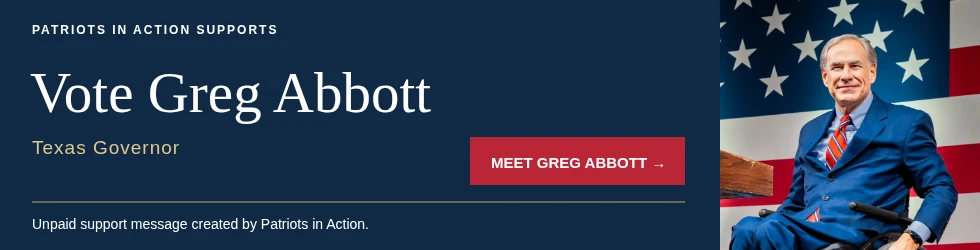
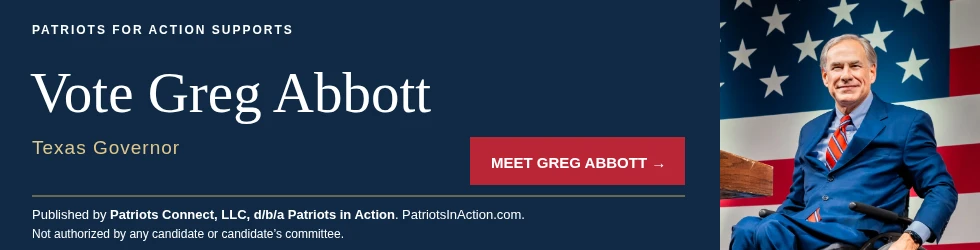
Name the supporter and publisher on the Abbott and Paxton ads (#34)
* Name the payers on the Abbott and Paxton ads

The owner replaced the "Patriots in Action supports" and unpaid-support wording
on the four Texas campaign ads:

- Greg Abbott: "Patriots for Action supports", "Paid for by PatriotsForAction.org."
- Ken Paxton: "GOP Connect supports", "Paid for by GOP Connect LLC."
- Both: "Not authorized by any candidate or candidate's campaign or committees."

The artwork is rebuilt on the PIA site and copied here byte for byte; the alt
text carries the same attribution. Links, placements and Texas targeting are
unchanged.

* Use the publisher disclaimers on the Abbott and Paxton ads

The owner settled the disclaimer wording:

- Greg Abbott: "Published by Patriots Connect, LLC, d/b/a Patriots in Action.
  PatriotsInAction.com."
- Ken Paxton: "Published by GOP Connect LLC."
- Both: "Not authorized by any candidate or candidate's committee."

The "Patriots for Action supports" and "GOP Connect supports" top lines stay.
The artwork is the PIA site's rebuild, copied byte for byte.

---------

Changed region(s): [[0.0306, 0.84, 0.551, 0.952], [0.0306, 0.756, 0.7041, 0.812], [0.1224, 0.084, 0.3061, 0.14]]

diff --git a/src/data/campaign-ads.ts b/src/data/campaign-ads.ts
@@ -4,11 +4,12 @@ import paxtonBanner from "../../ad-assets/ken-paxton-banner.webp";
 import abbottSquare from "../../ad-assets/greg-abbott-square.webp";
 import abbottBanner from "../../ad-assets/greg-abbott-banner.webp";
 
-// Existing Patriots in Action artwork, including its support attribution.
+// Artwork built by the PIA site (scripts/campaigns/build-ads.ts), which names each
+// ad's supporter and publisher; the alt text repeats that attribution.
 export const paxtonSquareAd: AdCreative = {
   id: "ken-paxton-inline", slot: "inline", image: paxtonSquare,
   name: "Ken Paxton",
-  alt: "Vote Ken Paxton for U.S. Senate · Texas. Unpaid support message created by Patriots in Action. View campaign information.",
+  alt: "Vote Ken Paxton for U.S. Senate · Texas. Published by GOP Connect LLC. Not authorized by any candidate or candidate’s committee. View campaign information.",
   href: "https://patriotsinaction.com/ken-paxton",
   stateSlugs: ["texas"], mastheadSponsor: false,
 };
@@ -18,7 +19,7 @@ export const paxtonBannerAd: AdCreative = {
 export const abbottSquareAd: AdCreative = {
   id: "greg-abbott-inline", slot: "inline", image: abbottSquare,
   name: "Greg Abbott",
-  alt: "Vote Greg Abbott for Texas Governor. Unpaid support message created by Patriots in Action. View campaign information.",
+  alt: "Vote Greg Abbott for Texas Governor. Published by Patriots Connect, LLC, d/b/a Patriots in Action. PatriotsInAction.com. Not authorized by any candidate or candidate’s committee. View campaign information.",
   href: "https://patriotsinaction.com/greg-abbott",
   stateSlugs: ["texas"], mastheadSponsor: false,
 };

diff --git a/tests/e2e/advertisers-install.spec.ts b/tests/e2e/advertisers-install.spec.ts
@@ -476,8 +476,9 @@ test("edition home pages show the banner below the lead feed and the square caro
 test("Texas desks display both campaign formats and banners remain selectable", async ({ page }) => {
   for (const path of ["/texas", "/texas/harris"]) {
     await page.goto(path);
-    for (const [id, name] of [["ken-paxton", "Ken Paxton"], ["greg-abbott", "Greg Abbott"]]) {
+    for (const [id, name, publisher] of [["ken-paxton", "Ken Paxton", "GOP Connect LLC."], ["greg-abbott", "Greg Abbott", "Patriots Connect, LLC, d/b/a Patriots in Action. PatriotsInAction.com."]]) {
       const square = page.locator(`.ad-slot-inline img[src*="${id}-square"]`).first();
+      expect(await square.getAttribute("alt")).toContain(`Published by ${publisher} Not authorized by any candidate or candidate’s committee.`);
       await square.evaluate((img: HTMLImageElement) => img.decode());
       expect(await square.evaluate((img: HTMLImageElement) => [img.naturalWidth, img.naturalHeight])).toEqual([600, 600]);
       await expect(square.locator("..")).toHaveAttribute("href", `https://patriotsinaction.com/${id}`);
